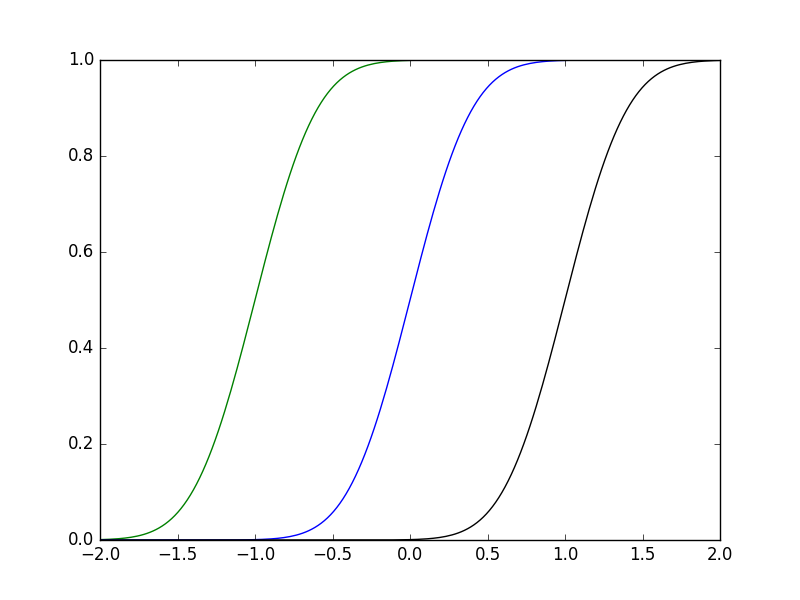
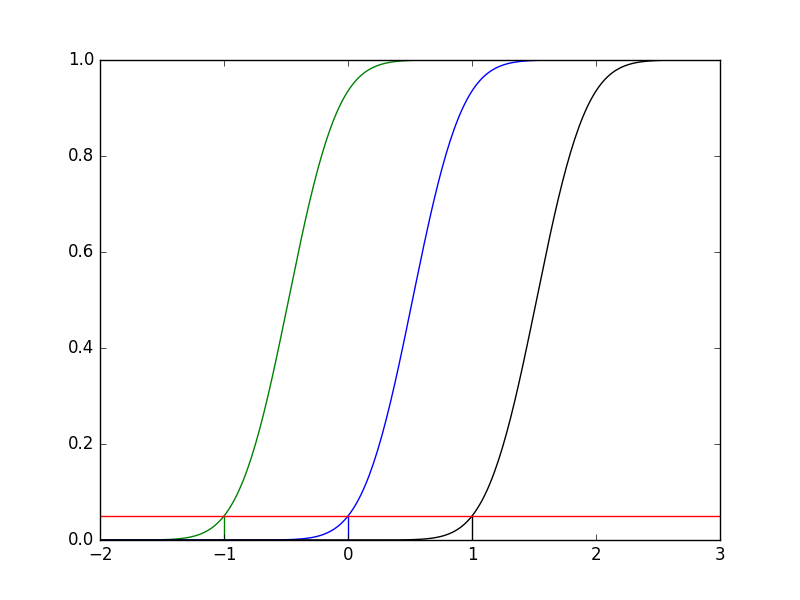
add power function.

diff --git a/hypothetical_test/power_function_example.py b/hypothetical_test/power_function_example.py
@@ -5,6 +5,8 @@ from scipy.misc  import comb
 from scipy.stats import norm
 import matplotlib.pyplot as plt
 
+import pdb
+
 '''
 test hypothetical: 用抽样的方法，来检查关于总体的H0假设(null hypothetical)能否被推翻，H1(备假设)能否被接受
 
@@ -14,9 +16,9 @@ test hypothetical: 用抽样的方法，来检查关于总体的H0假设(null hy
 total < H0: accept H0
 
 '''
-def power_function_for_binomial(theta, n, H0):
+def power_function_for_binomial(theta, n, c):
     beta_theta = 0.
-    for i in xrange(H0, n+1):
+    for i in xrange(c, n+1):
         beta_theta += comb(n, i) * np.power(theta, i) * np.power(1-theta, n - i)
 
     return beta_theta 
@@ -24,57 +26,67 @@ def power_function_for_binomial(theta, n, H0):
 
 '''
 在sigma已知的情况下，检验mu
-H0: mu <= H0
-H1: mu > H0
-alpha = 0.05
+单边检测
+H0: mu <= mu0
+H1: mu > mu0
+alpha = 0.05 (or 0.01)
+
+beta(mu) 
+= Pmu(X_bar > c) 
+= P(((X_bar-mu)*sqrt(n)/sigma) > (c-mu)*(sqrt(n)/sigma))
+= P(((X_bar-mu)*sqrt(n)/sigma) > (c-mu)*(sqrt(n)/sigma))
+=1 - Phi((c-mu)*sqrt(n)/sigma))
+
+alpha = sup(beta(mu)) = 1 - Phi((c-mu0)*(sqrt(n)/sigma)) 
+c = Phi_inv(1-alpha)*sigma/sqrt(n) + mu0
+
+X_bar > c:
+(X_bar - mu0)*sqrt(n)/sigma > Phi_inv(1-alpha)
+Phi(X_bar - mu0)*sqrt(n)/sigma > 1-alpha
+
 '''
-def power_function_for_norm(X_bar, n, H0):
-    sigma = 1
-    beta_mu = 0
-    z = (X_bar - H0) / ( 1. / np.sqrt(n * 1.))
-    return norm.cdf(z)
+def power_function_for_norm(mu, sigma, n, c):
+    z = (c - mu)*np.sqrt(n)/sigma
+    beta = 1 - norm.cdf(z)
 
-    
+    return beta
 
-    return None
+def c_norm(mu0, sigma, alpha, n):
+    c = norm.ppf(1-alpha) * sigma/np.sqrt(n) + mu0
+    return c
 
 
 if __name__ == "__main__":
+    colors = ['g', 'b', 'k']
     n = 5
     thetas = np.linspace(0, 1, 100)
     pw_vals = np.zeros(len(thetas))
+    cs = [3, 5]
     
-    H0 = 3 
-    for i in xrange(len(thetas)):
-        pw_vals[i] = power_function_for_binomial(thetas[i], n, H0)
-    plt.plot(thetas, pw_vals, color='g')
-
-    H0 = 5
-    for i in xrange(len(thetas)):
-        pw_vals[i] = power_function_for_binomial(thetas[i], n, H0)
-    plt.plot(thetas, pw_vals, color='k')
+    for cid in xrange(len(cs)):
+        c = cs[cid]
+        for i in xrange(len(thetas)):
+            pw_vals[i] = power_function_for_binomial(thetas[i], n, c)
+        plt.plot(thetas, pw_vals, color=colors[cid])
 
     plt.savefig('images/binomial_power_function.png', format='png')
-
     plt.clf()
 
     n = 10
-    X_bars = np.linspace(-2, 2, 200)
-    pw_vals = np.zeros(len(X_bars))
+    alpha = 0.05
+    sigma = 1.
+    mus = np.linspace(-2, 3, 300)
+    pw_vals = np.zeros(len(mus))
+    mu0s =np.array([-1, 0, 1])
 
-    H0 = -1
-    for i in xrange(len(X_bars)):
-        pw_vals[i] = power_function_for_norm(X_bars[i], n, H0)
-    plt.plot(X_bars, pw_vals, color='g')
+    for cid in xrange(len(mu0s)):
+        mu0 = mu0s[cid]
+        c = c_norm(mu0, sigma, alpha, n)
+        for i in xrange(len(mus)):
+            pw_vals[i] = power_function_for_norm(mus[i], sigma, n, c)
+        plt.plot(mus, pw_vals, color=colors[cid])
+        plt.plot([mu0, mu0], [0, alpha], color=colors[cid])
 
-    H0 = 0
-    for i in xrange(len(X_bars)):
-        pw_vals[i] = power_function_for_norm(X_bars[i], n, H0)
-    plt.plot(X_bars, pw_vals, color='b')
-
-    H0 = 1
-    for i in xrange(len(X_bars)):
-        pw_vals[i] = power_function_for_norm(X_bars[i], n, H0)
-    plt.plot(X_bars, pw_vals, color='k')
+    plt.plot([mus[0], mus[-1]], [alpha, alpha], color='r')
 
     plt.savefig('images/norm_power_function.png', format='png')
